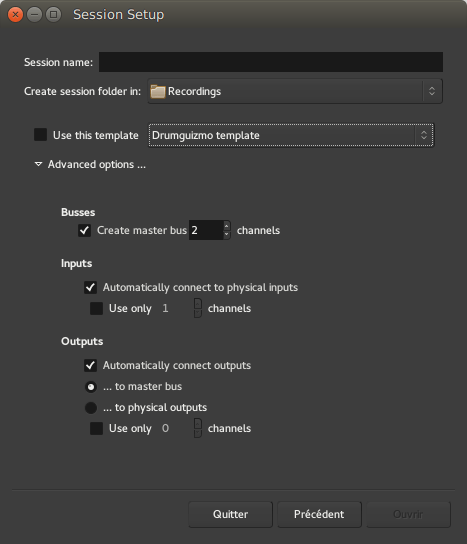
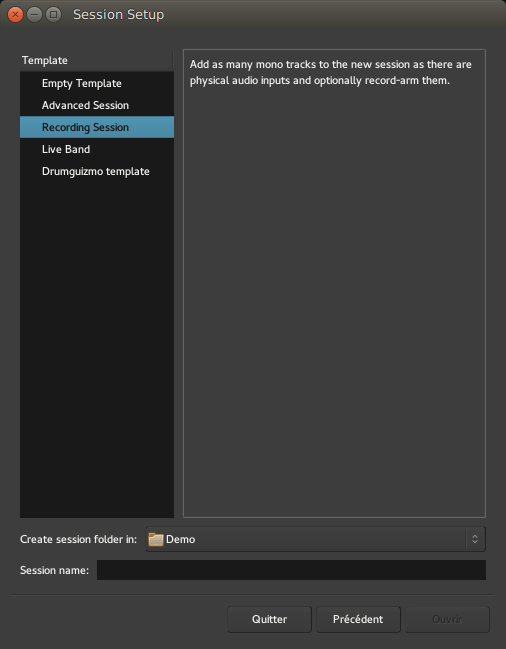
Updated the documentation about templates, the new 'new session' window and the new 'add track' one.

diff --git a/include/adding-tracks-busses-and-vcas.html b/include/adding-tracks-busses-and-vcas.html
@@ -1,6 +1,6 @@
 
-<figure class="right">
-    <img src="/images/add-track-or-bus.png" alt="the add-track dialog">
+<figure class="left">
+    <img class="mini" src="/images/add-track-or-bus.png" alt="the add-track dialog">
     <figcaption>
       The Add Track/Bus/VCA dialog.
     </figcaption>
@@ -18,23 +18,33 @@
 <p>
   Any of these actions will open the Add Track/Bus/VCA dialog.
 </p>
+
+<p>
+  The list of available track templates (both factory and user-created ones)
+  in the left panel allows to choose the <a href="@@track-types">track(s) type</a>
+  (e.g. Audio, MIDI, bus, VCA etc.). Some templates can do even more, like the
+  factory-provided <kbd class="menu">Live Band</kbd> that automatically creates
+  a number of usual tracks for a common band setup. See <a
+  href="@@newopen-session-dialog">New Session</a> for more information about
+  templates.
+</p>
+
+<p>
+  The common templates have parameters to tweak:
+</p>
+
 <table class="dl">
   <tr><th>Add</th>
-  <td>Selects the number of tracks, busses or VCAs to create, and their <a
-href="@@track-types">types</a>.</td></tr>
+  <td>Selects the number of tracks, busses or VCAs to create.</td></tr>
   <tr><th>Name</th>
   <td>Defines the name of the new track(s). If multiple tracks are created, or if
 a track with the same name already exists, a space and number will be happened
-at the end (e.g.: Audio 1, Audio 2&hellip;)</td></tr>
+at the end (e.g.: Audio 1, Audio 2&hellip;).</td></tr>
   <tr><th>Configuration</th>
   <td>This menu allows to choose from a number of route templates, which determine
 the number of input ports and optionally contain plugins and other mixer strip
 configuration. The most common choices here are <em>mono</em> and
 <em>stereo</em>.</td></tr>
-  <tr><th>Record mode</th>
-  <td>This option is only available for audio tracks and affects how it behaves
-when recording. See <a href="@@track-types#trackmodes">Track Modes</a> for
-details.</td></tr>
   <tr><th>Instrument</th>
   <td>This option is only available for MIDI tracks and busses and allows the
 selection of a default instrument from the list of available plugins.</td></tr>
@@ -43,19 +53,30 @@ selection of a default instrument from the list of available plugins.</td></tr>
   operations are applied to all members of a group at the same time (selecting
   record enable, or editing, for example). This option assigns the new track/bus
   to an existing group, or create a new group.</td></tr>
-  <tr><th>Insert</th>
+  <tr><th>Pin Mode</th>
+  <td>Defines how the number of output responds to adding a plugin with a
+  different number of outputs than the track itself. in <em>Strict I/O</em> mode,
+  the track will only use a few of the plugins I/O and will keep its own number of
+  output fixed, while in <em>Flexible I/O</em> mode, it will automatically adapt
+  to the I/O of its plugins. See <a href="@@trackbus-signal-flow">Signal flow</a>
+  to learn more about those options.</td></tr>
+  <tr><th>Record mode</th>
+  <td>This option is only available for audio tracks and affects how it behaves
+  when recording. See <a href="@@track-types#trackmodes">Track Modes</a> for
+  details.</td></tr>
+  <tr><th>Position</th>
   <td>Defines where in the track list is the track created. The default is
 <em>Last</em>, i.e. after all the tracks and busses, and can also be
 <em>First</em>, <em>Before Selection</em> (to place it just above the selected
 track) or <em>After selection</em>.</td></tr>
-  <tr><th>Output Ports</th>
-  <td>Defines how the number of output responds to adding a plugin with a
-different number of outputs than the track itself. in <em>Strict I/O</em> mode,
-the track will only use a few of the plugins I/O and will keep its own number of
-output fixed, while in <em>Flexible I/O</em> mode, it will automatically adapt
-to the I/O of its plugins. See <a href="@@trackbus-signal-flow">Signal flow</a>
-to learn more about those options.</td></tr>
 </table>
+
+<p>
+  Multiple tracks of different types can be created by using the <kbd
+  class="menu">Add selected items (and leave dialog open)</kbd> button, which, used
+  in conjunction with the <kbd class="menu">Add</kbd> field, allows for a very efficient
+  and fast way to create a base track setup. 
+</p>
 
 <p>
   New tracks appear in both the editor and mixer windows. The editor window

diff --git a/include/newopen-session-dialog.html b/include/newopen-session-dialog.html
@@ -37,31 +37,63 @@
   </figcaption>
 </figure>
 
+<figure class="right">
+  <img class="mini" src="/images/template_setup.png" alt="One of the Template Setup Dialogs">
+  <figcaption>
+    One of the Template Setup Dialogs
+  </figcaption>
+</figure>
+
 <p>
   This page allows to type in the name of a session, select a folder to save it in, and
   optionally use an existing <a href="@@session-templates">template</a>.
 </p>
 <p>
-  Under <dfn>Advanced Options</dfn>, some fine tuning can be done, like selecting
-  whether Ardour should create a Master Bus, or a Control Bus, and how many channels
-  the output should have.
+  The different templates, both the "factory" ones and the ones created by the user,
+  are easily available on the left-side panel. Depending on the chosen template,
+  a specific Template Settings window may be shown, allowing the user to fine-tune
+  the details of the template and/or choose between the different options of the
+  template.
+</p>
+
+<p>
+  Templates can be huge time savers when working on similar projects, or on
+  usual projects, as they allow to preset and tweak a lot of the <a
+  href="@@session-properties-dialog">session properties</a>, (like the
+  availability of a <a href="@@monitor-section">monitoring section</a>,
+  connection to a Master Bus, etc.), and handle the creation of <a
+  href="@@adding-tracks-busses-and-vcas">tracks</a> of any kind.
 </p>
 <p>
-  Other options also decide whether Ardour should automatically connect all inputs
-  to the hardware's physical ports. Ardour will do so
-  sequentially and in round-robin fashion, connecting the first track's
-  input to the first input of the hardware and so on. When Ardour has used
-  all available hardware inputs, it will begin again with the first physical
-  input.
+  The <kbd class="menu">Empty Template</kbd> preset allows to create a session
+  "from scratch". Everything a session template does can be done manually
+  &mdash;albeit more tediously&mdash; and the resulting sessions will not differ
+  whatsoever.
 </p>
 <p>
-  The number of hardware channels used by Ardour can also be limited.
+  As of Ardour 5.12, which introduced the new template dialog, the factory templates are:
+</p>
+
+<table class="dl">
+  <tr><th><kbd class="menu">Empty Template</kbd></th>
+      <td>Creates an empty session with no tracks and no monitoring. A stereo Master Bus is created, and any track created defaults to output on this bus.</td></tr>
+  <tr><th><kbd class="menu">Advanced Session</kbd></th>
+      <td>Like the Empty Template, but adds the ability to easily manage the Master bus (channels, hardware connection, and track autoconnection), and the creation of a monitoring section.</td></tr>
+  <tr><th><kbd class="menu">Recording Session</kbd></th>
+      <td>Like the Empty Template, but allows the fast creation of a number of tracks, optionnaly ready to record.</td></tr>
+  <tr><th><kbd class="menu">Live Band</kbd></th>
+      <td>Fast tracks the creation of usual tracks for a band setup (vocals, guitars, piano, ...), and optionnaly adds usual effects on these tracks.</td></tr>
+</table>
+
+<p>
+  Selecting a template will display its description in the right-side pannel, while
+  hovering over a template name will show a tooltip indicating if it is a factory
+  template, or, if it is a user-created one, which version of Ardour was used to
+  create it.
 </p>
 <p>
-  By default Ardour will connect all tracks and busses to the Master Bus if
-  there is one. However, it can also be told to automatically connect each
-  output to the physical outputs of the interface or sound card, and limit
-  the number of physical outputs used, as above.
+  Whether or not a template is used, and before the "Template Setup" dialog, the
+  Audio/MIDI Setup will be shown.
 </p>
 
 <h2 class="clear">Audio/MIDI Setup</h2>

diff --git a/include/session-templates.html b/include/session-templates.html
@@ -12,19 +12,13 @@
 <h2>Creating a Session Template</h2>
 <p>
   The <kbd class="menu">Session &gt; Save Template</kbd> shows a dialog asking
-  for the name of the new template.
+  for the name of the new template, and a description.
 </p>
 
 <h2>Using a Session Template</h2>
 <p>
-  In the New Session dialog, a combo selector allows to choose the desired
-  template.
-</p>
-<p class="note">
-  An existing session can also be used as a template, without saving it as one.
-  This is available as an option in the New Session dialog. Doing this will not
-  alter the existing session at all, but will use its track, bus and plugin
-  configuration just like a template.
+  In the <a href="@@newopen-session-dialog">New Session dialog</a>, a panel lists the different
+  template (factory and user-created).
 </p>
 <p>
   See also <a href="@@adding-tracks-busses-and-vcas">Adding Tracks and Busses</a>
